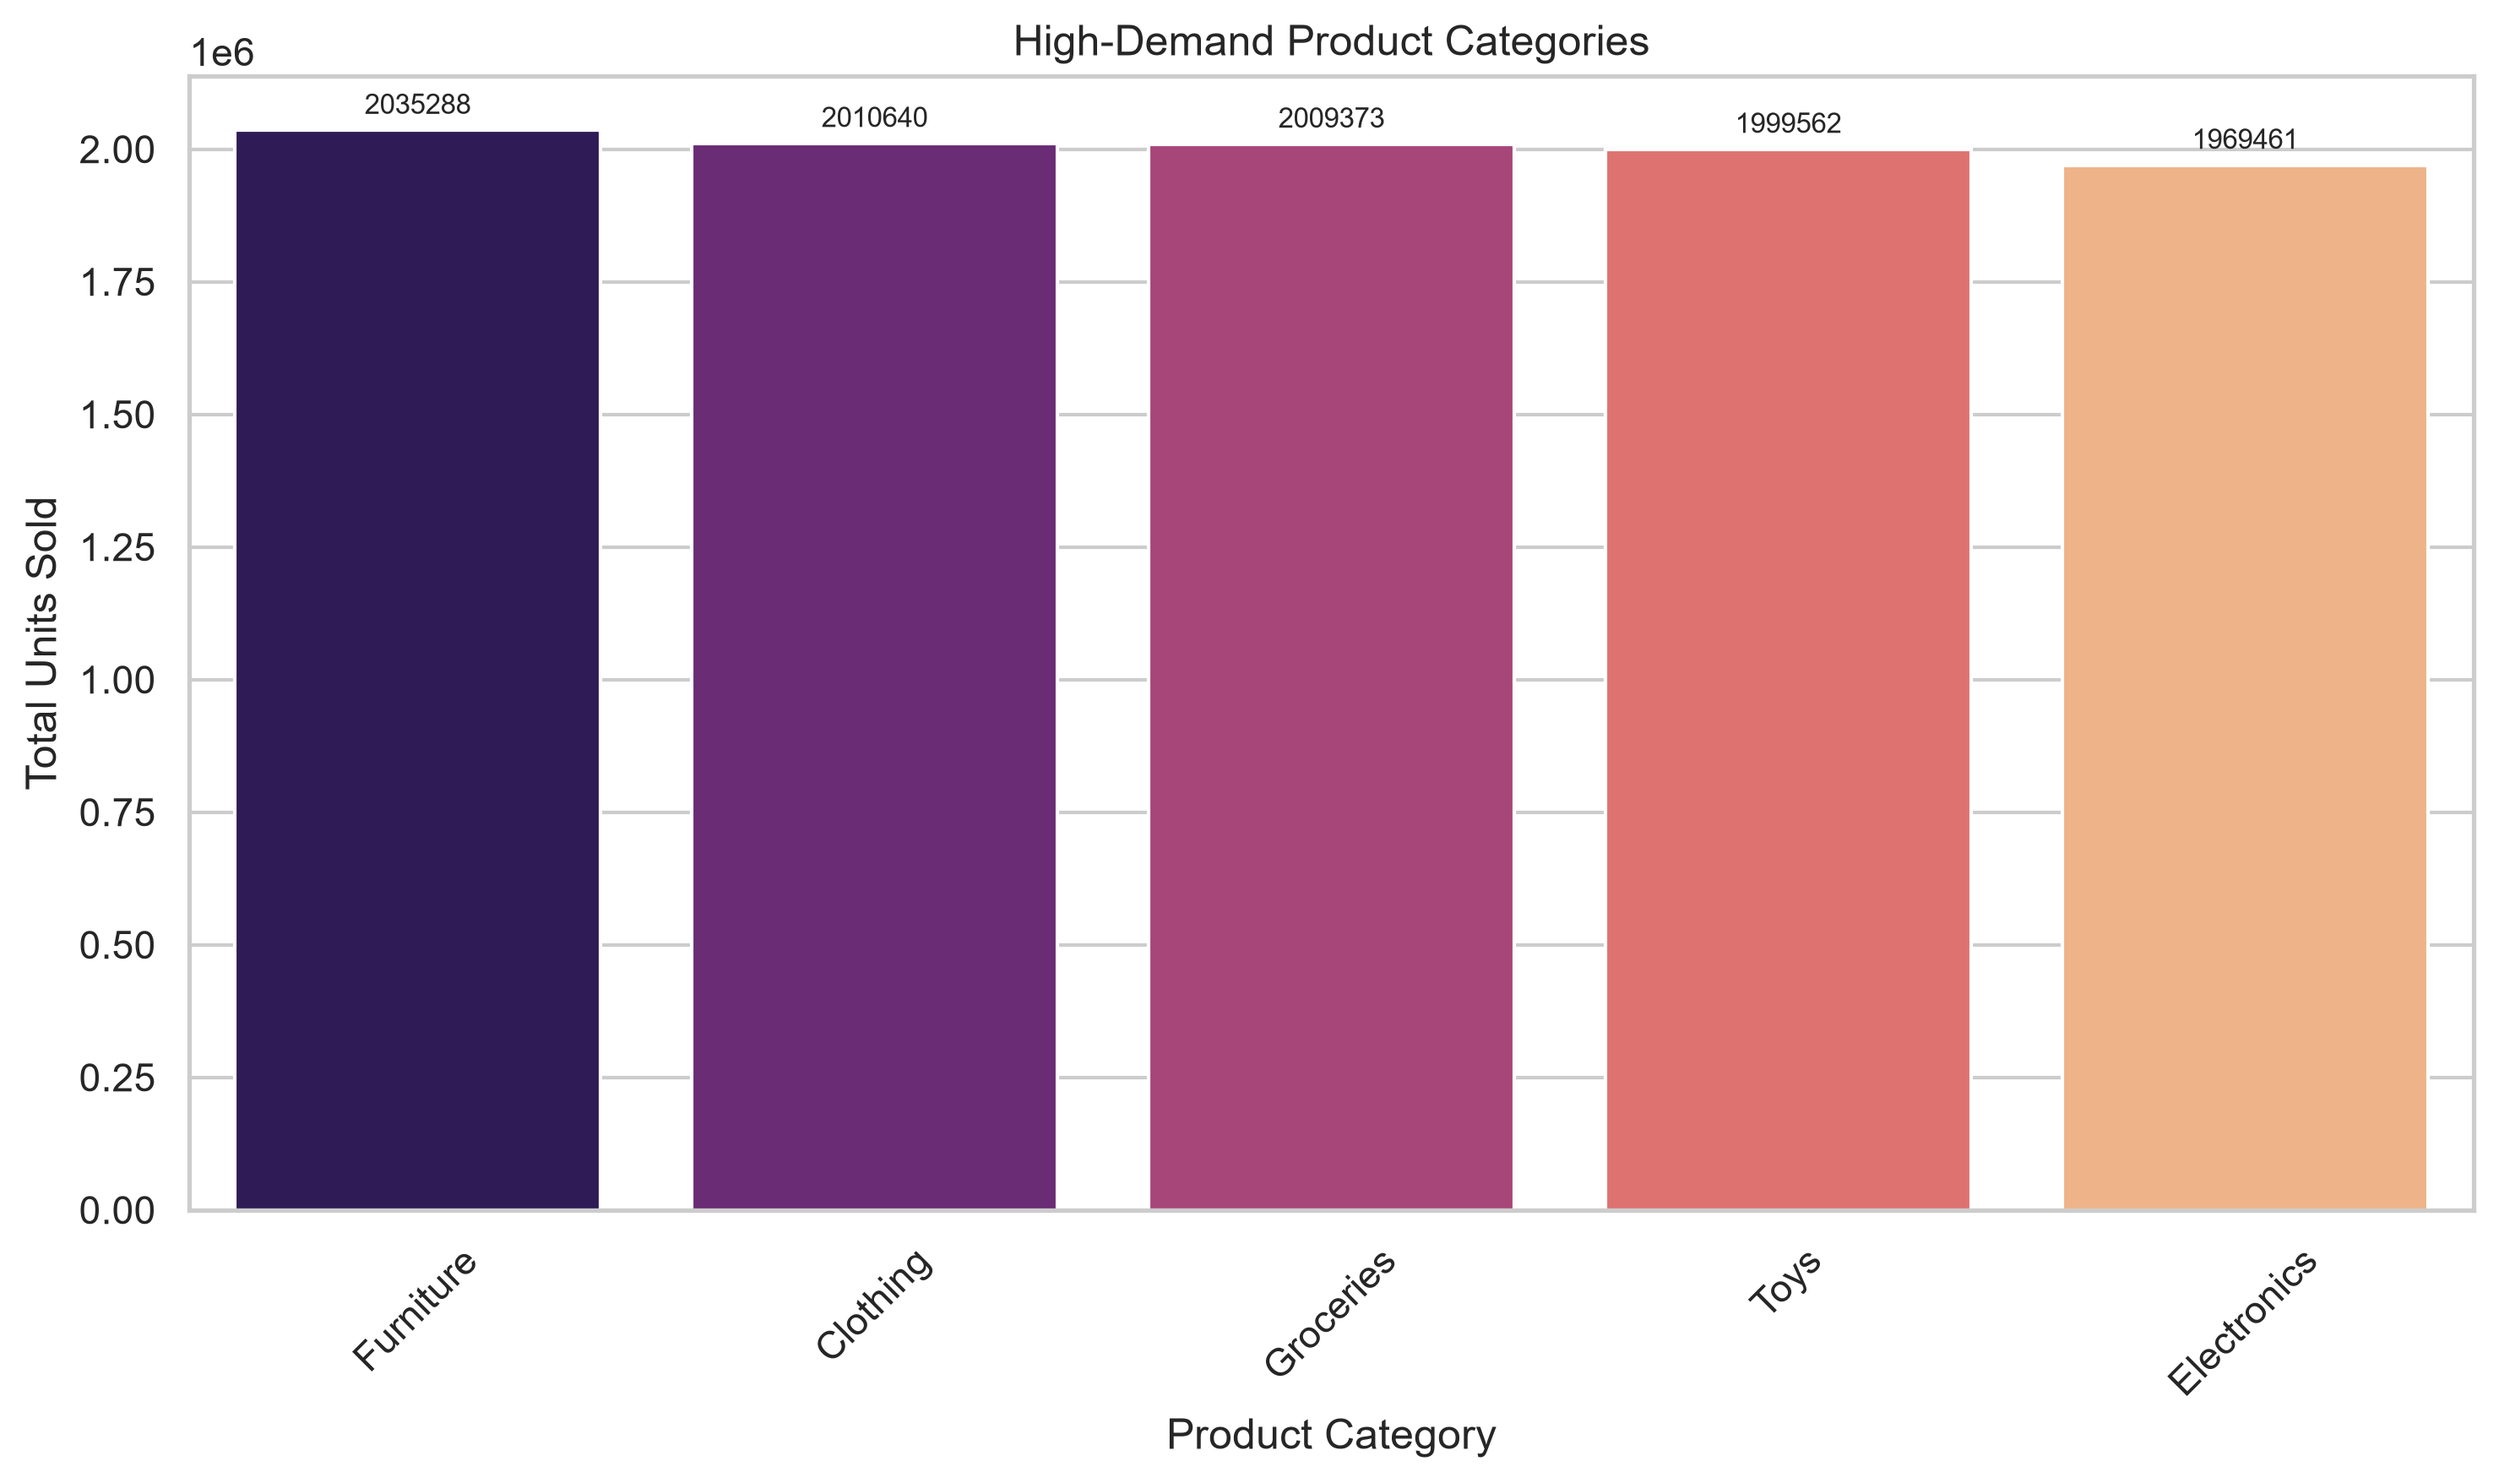
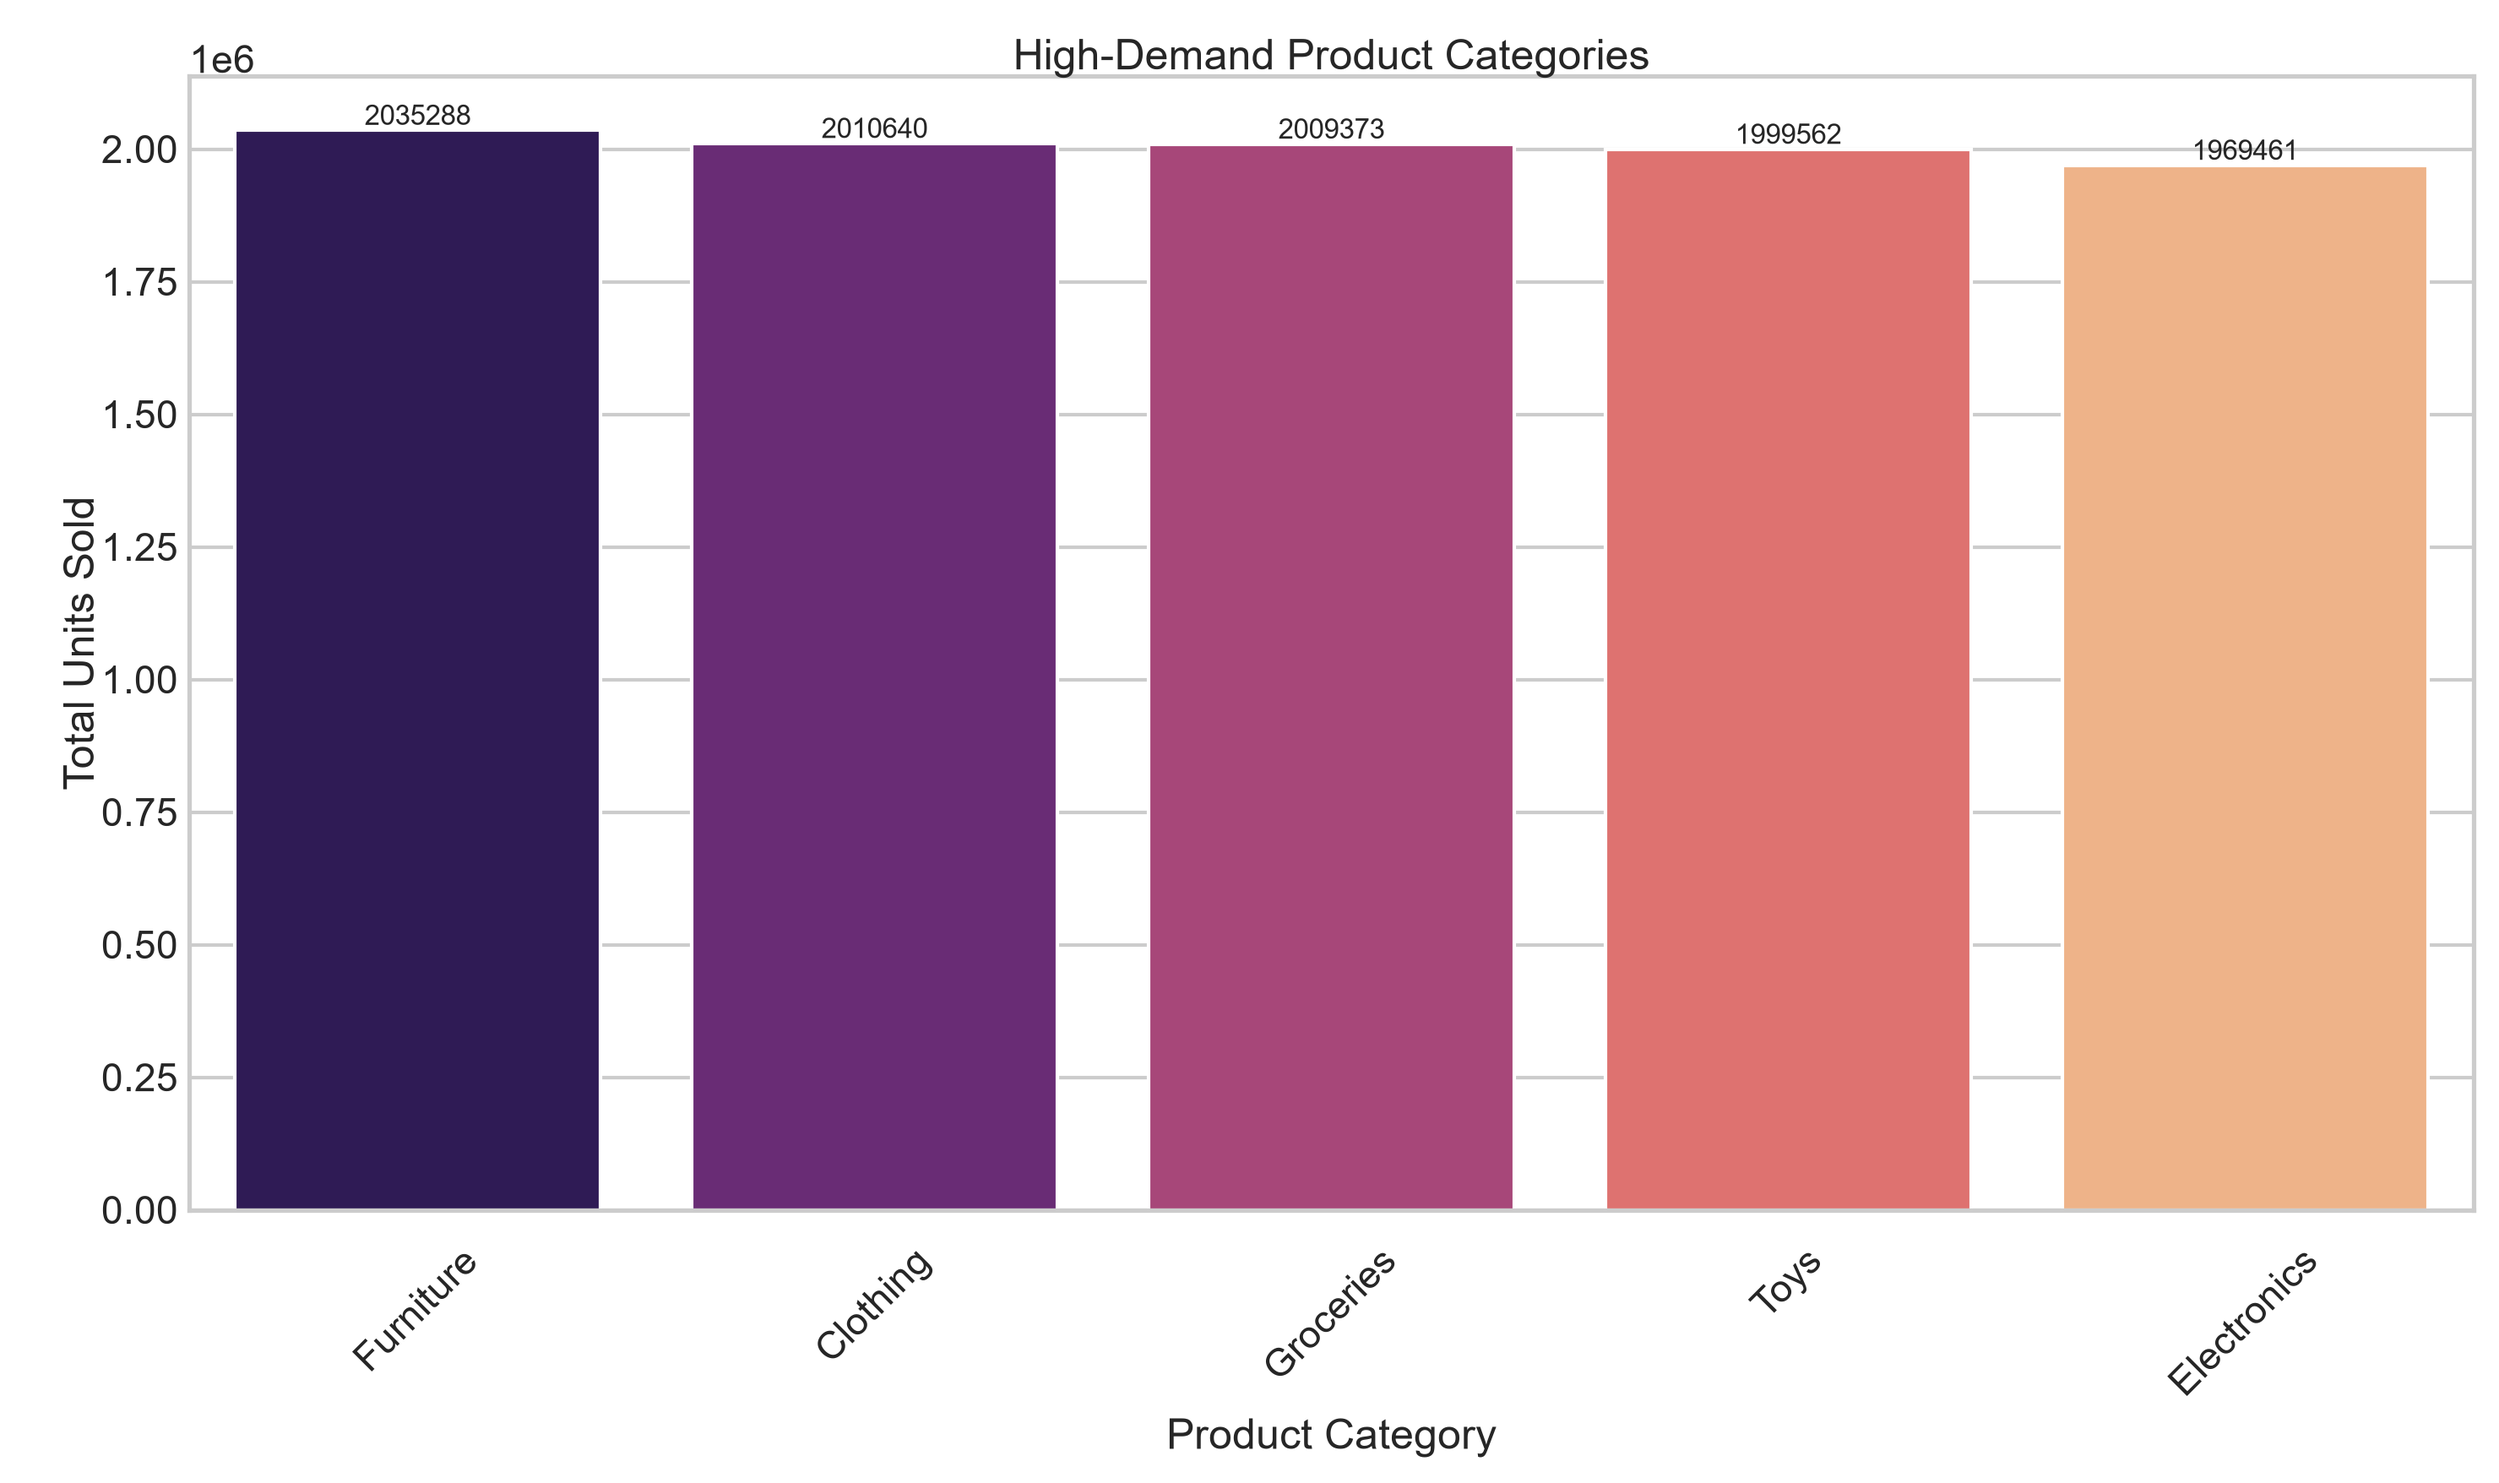
removed uncessary things

diff --git a/dashboard.py b/dashboard.py
@@ -9,9 +9,6 @@ import seaborn as sns
 import streamlit as st
 
 
-# ==================================================
-# 1. PROJECT PATHS
-# ==================================================
 
 PROJECT_DIR = Path(__file__).resolve().parent
 
@@ -38,10 +35,6 @@ DATA_PATHS = [
 ]
 
 
-# ==================================================
-# 2. PAGE CONFIGURATION
-# ==================================================
-
 st.set_page_config(
     page_title="Retail Inventory Analytics",
     page_icon="📊",
@@ -51,9 +44,6 @@ st.set_page_config(
 sns.set_theme(style="whitegrid")
 
 
-# ==================================================
-# 3. DASHBOARD CSS
-# ==================================================
 
 st.markdown(
     """
@@ -170,11 +160,6 @@ st.markdown(
     unsafe_allow_html=True,
 )
 
-
-# ==================================================
-# 4. HELPER FUNCTIONS
-# ==================================================
-
 def section_heading(title: str):
 
     st.markdown(
@@ -210,15 +195,6 @@ def display_chart(fig, filename: str):
 
     plt.close(fig)
 
-
-# ==================================================
-# 5. PDF VIEWER FUNCTION
-# ==================================================
-
-
-# ==================================================
-# PDF REPORT VIEWER - CHROME FRIENDLY
-# ==================================================
 
 def show_pdf_report():
 
@@ -272,9 +248,6 @@ def show_pdf_report():
         st.error(f"Unable to read the PDF report: {error}")
 
 
-# ==================================================
-# 6. TEAM INTRODUCTION POPUP
-# ==================================================
 
 if "team_popup_seen" not in st.session_state:
     st.session_state["team_popup_seen"] = False
@@ -327,11 +300,6 @@ if not st.session_state["team_popup_seen"]:
 
     show_team_popup()
 
-
-# ==================================================
-# 7. DASHBOARD HEADER AND NAVIGATION
-# ==================================================
-
 header_col, button_col = st.columns([5, 1])
 
 with header_col:
@@ -375,7 +343,7 @@ with button_col:
 
                 st.error(
                     "PDF not found. Put "
-                    "Retail_Inventory_Analytics_Final_Report.pdf "
+                    "Retail_Inventory_Analytics_Final_Report_22_Pages_Dashboard.pdf "
                     "in the same folder as dashboard.py."
                 )
 
@@ -394,20 +362,12 @@ with button_col:
 st.divider()
 
 
-# ==================================================
-# 8. OPEN PDF REPORT PAGE
-# ==================================================
-
 if st.session_state["current_page"] == "pdf":
 
     show_pdf_report()
 
     st.stop()
 
-
-# ==================================================
-# 9. LOAD CLEANED DATASET
-# ==================================================
 
 csv_path = next(
     (path for path in DATA_PATHS if path.is_file()),
@@ -435,10 +395,6 @@ except (OSError, pd.errors.ParserError, UnicodeDecodeError) as error:
     st.stop()
 
 
-# ==================================================
-# 10. VALIDATE REQUIRED COLUMNS
-# ==================================================
-
 required_columns = {
     "Date",
     "Product ID",
@@ -465,10 +421,6 @@ if missing_columns:
 
     st.stop()
 
-
-# ==================================================
-# 11. DATA PREPARATION
-# ==================================================
 
 df["Date"] = pd.to_datetime(
     df["Date"],
@@ -519,11 +471,6 @@ df["Total Revenue"] = (
     * (1 - df["Discount"] / 100)
 )
 
-
-# ==================================================
-# 12. PRODUCT SUMMARY AND INVENTORY STATUS
-# ==================================================
-
 product_summary = (
     df.groupby("Product ID", dropna=False)
     .agg(
@@ -550,10 +497,6 @@ product_summary.loc[
 ] = "Over-stocked"
 
 
-# ==================================================
-# 13. FORECAST ERROR
-# ==================================================
-
 forecast_rows = df.dropna(
     subset=["Demand Forecast", "Units Sold"]
 )
@@ -568,11 +511,6 @@ else:
         forecast_rows["Units Sold"]
         - forecast_rows["Demand Forecast"]
     ).abs().mean()
-
-
-# ==================================================
-# 14. OVERVIEW
-# ==================================================
 
 section_heading("Overview")
 
@@ -611,11 +549,6 @@ with k4:
         "Forecast MAE",
         f"{mae:,.2f} units" if pd.notna(mae) else "N/A",
     )
-
-
-# ==================================================
-# 15. INVENTORY STATUS
-# ==================================================
 
 section_heading("Inventory Status")
 
@@ -659,19 +592,9 @@ st.caption(
     "is under-stocked; above 15 times is over-stocked."
 )
 
-
-# ==================================================
-# 16. CHARTS
-# ==================================================
-
 section_heading("Charts")
 
 chart_left, chart_right = st.columns(2)
-
-
-# --------------------------------------------------
-# CHART 1: REVENUE BY CATEGORY
-# --------------------------------------------------
 
 category_summary = (
     df.groupby("Category", as_index=False)["Total Revenue"]
@@ -729,11 +652,6 @@ with chart_left:
             "01_category_revenue.png",
         )
 
-
-# --------------------------------------------------
-# CHART 2: UNITS SOLD BY SEASONALITY
-# --------------------------------------------------
-
 seasonal_units = (
     df.groupby("Seasonality")["Units Sold"].sum()
 )
@@ -769,11 +687,6 @@ with chart_right:
             fig,
             "02_seasonal_units_distribution.png",
         )
-
-
-# --------------------------------------------------
-# CHART 3: TOP 10 DEMAND PRODUCTS
-# --------------------------------------------------
 
 top_10 = (
     product_summary
@@ -828,11 +741,6 @@ with chart_left:
             fig,
             "03_top_demand_products.png",
         )
-
-
-# --------------------------------------------------
-# CHART 4: DAILY DEMAND AND MOVING AVERAGE
-# --------------------------------------------------
 
 daily_demand = (
     df.groupby("Date")["Units Sold"]
@@ -894,10 +802,6 @@ with chart_right:
             "04_demand_trend_7day_moving_avg.png",
         )
 
-
-# --------------------------------------------------
-# CHART 5: FORECAST VS ACTUAL
-# --------------------------------------------------
 
 chart_left, chart_right = st.columns(2)
 
@@ -964,10 +868,6 @@ with chart_left:
         )
 
 
-# --------------------------------------------------
-# CHART 6: HIGH-DEMAND CATEGORIES
-# --------------------------------------------------
-
 category_demand = (
     df.groupby("Category")["Units Sold"]
     .sum()
@@ -1027,10 +927,6 @@ with chart_right:
         )
 
 
-# --------------------------------------------------
-# CHART 7: REGION-WISE TOTAL REVENUE
-# --------------------------------------------------
-
 region_summary = (
     df.groupby("Region")
     .agg(
@@ -1089,11 +985,6 @@ with chart_left:
             fig,
             "07_region_revenue.png",
         )
-
-
-# --------------------------------------------------
-# CHART 8: REGION-WISE CATEGORY COUNT PLOT
-# --------------------------------------------------
 
 with chart_right:
 
@@ -1161,9 +1052,6 @@ with chart_right:
     )
 
 
-# ==================================================
-# 17. PRODUCT DEMAND TABLES
-# ==================================================
 
 section_heading("Product Demand")
 
@@ -1244,11 +1132,6 @@ with tab3:
         use_container_width=True,
         hide_index=True,
     )
-
-
-# ==================================================
-# 18. FOOTER
-# ==================================================
 
 st.divider()
 
